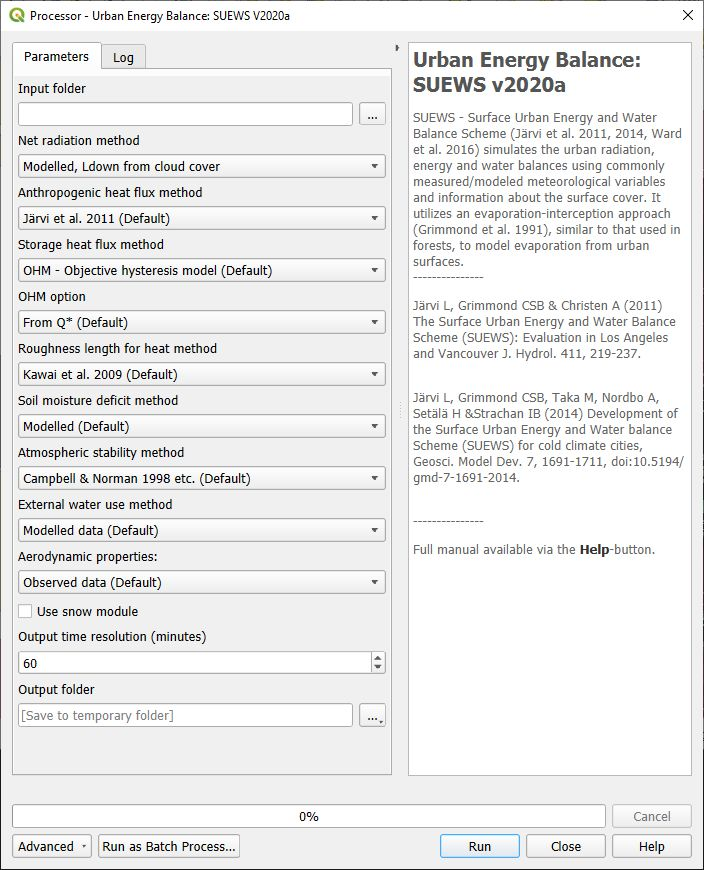
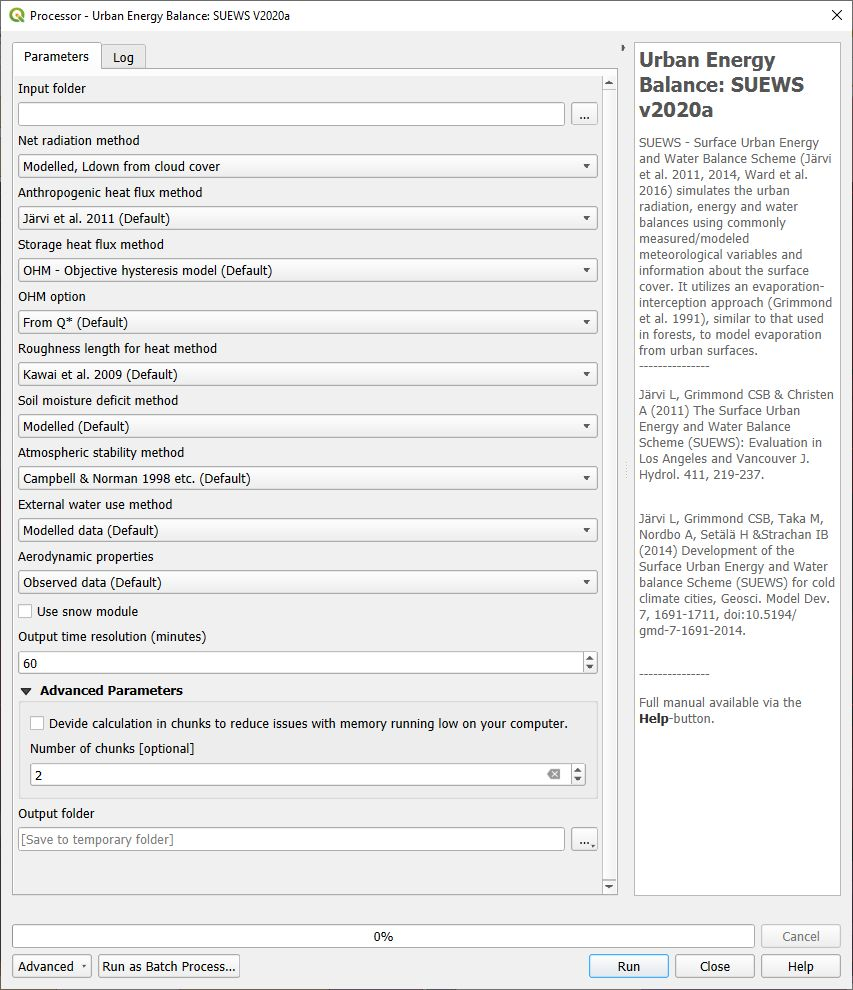
Update SUEWS Advanced

diff --git a/docs/source/processor/Urban Energy Balance Urban Energy Balance (SUEWS.BLUEWS, advanced).rst b/docs/source/processor/Urban Energy Balance Urban Energy Balance (SUEWS.BLUEWS, advanced).rst
@@ -19,13 +19,14 @@ Urban Energy Balance: Urban Energy Balance (SUEWS, advanced)
      - Model applicability: Local scale – so forcing data should be above the height of the roughness elements (trees, buildings)
 
 * Related Preprocessors
-      `MetPreprocessor`, `ERA5`, `LandCoverReclassifier`, `LandCoverFraction(Point)`, `LandCoverFraction(Grid)`, `MorphometricCalculator(Point)`, `MorphometricCalculator(Grid)`, `SourceArea(Point)`
+      `MetPreprocessor`, `ERA5`, `LandCoverReclassifier`, `LandCoverFraction(Point)`, `LandCoverFraction(Grid)`, `MorphometricCalculator(Point)`, `MorphometricCalculator(Grid)`, `SourceArea(Point)`, `SUEWSDatabase`, , `SUEWSDatabasePrepare`
 
 * Dialog box
       .. figure:: /images/SUEWS_Advanced.jpg
+          :width: 100%
           :align: center
 
-          The dialog for SUEWS Advanced
+          The dialog for SUEWS Advanced. Click on image for enlargement.
 
 * Dialog sections
      -  When you run the plugin, you will see the dialog shown above. To use this plugin, all input data needs to be prepared beforehand. This can be done using the various plugins in the pre-processor in UMEP (see `ToolApplications`). The settings available in this plugin is used for specifying the settings for a specific model run. You should consult the manual (`<https://suews.readthedocs.io/en/latest/>`__) for instructions and information on what settings to use. 
@@ -35,6 +36,8 @@ Urban Energy Balance: Urban Energy Balance (SUEWS, advanced)
      -  The interface above creates a so-called namelist (**RunControl.nml**) that is used be the model for general settings. After running the model, this file can be found in the suewsmodel directory in the UMEP plugin directory as well as in the input folder specified.
      
      -  It is always recommended to make use of a spin-up period to adjust e.g. water availbility in the model. This can be done by e.g. start your model before (months-years) the time period of interest.
+     
+     -  If you encounter memory issues calculating many grids and/or long time periods, you can divide the calculation in chunks as seen in the figure above.
 
 * References:
       -  A full list of references related to the SUEWS model can be found at SUEWS manual (`<https://suews.readthedocs.io/en/latest/>`__).
